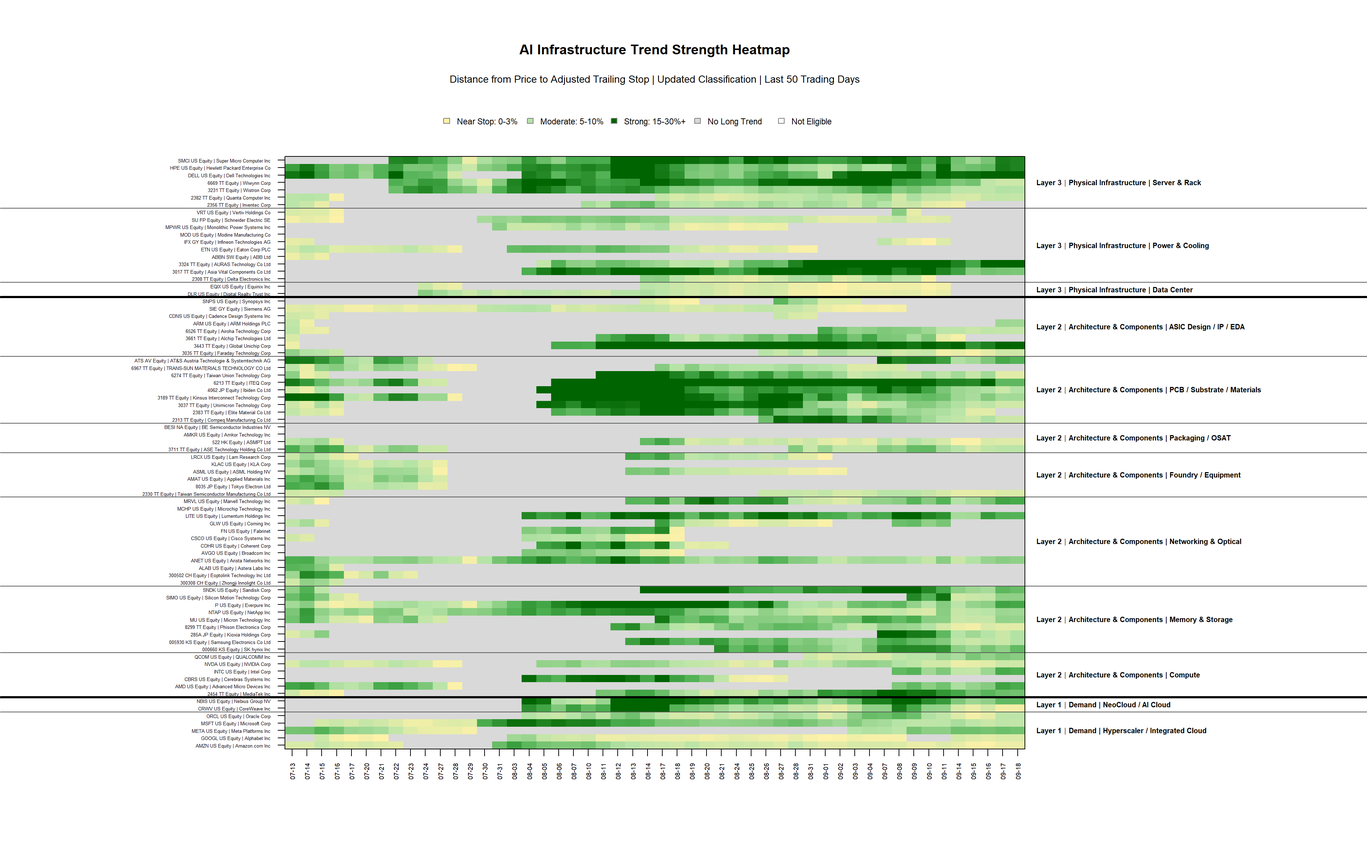
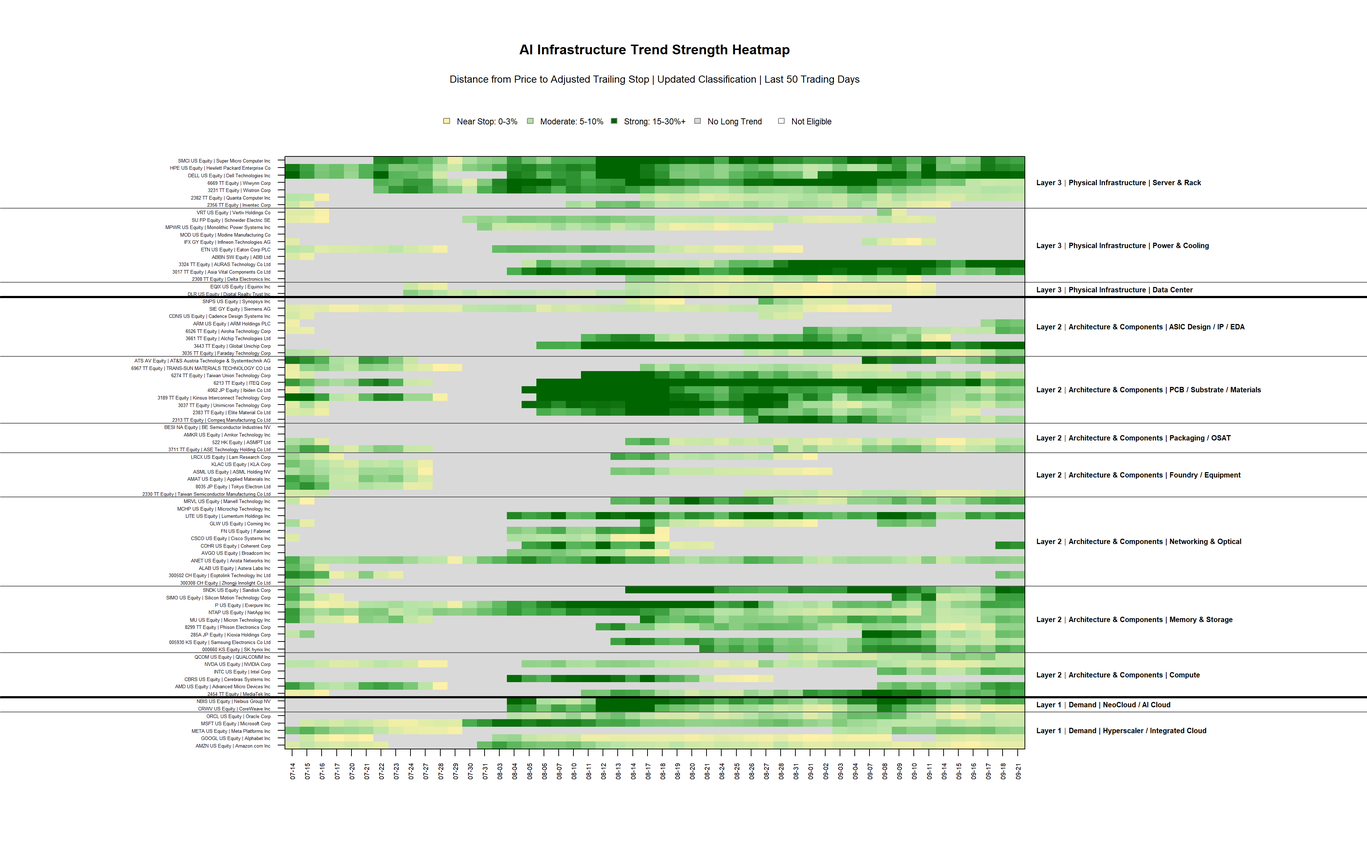
Add files via upload

diff --git a/index.html b/index.html
@@ -60,8 +60,8 @@ footer{color:var(--muted);font-size:11px;margin:18px 2px 30px}
     <div class="subtitle">Trend strength × daily signal snapshot × Bloomberg news context</div>
   </div>
   <div class="status">
-    <div class="badge">Data Through <strong>2026-09-18</strong></div>
-    <div class="badge">Generated <strong>2026-09-18 08:34</strong></div>
+    <div class="badge">Data Through <strong>2026-09-21</strong></div>
+    <div class="badge">Generated <strong>2026-09-21 08:21</strong></div>
     <div class="badge">Status <strong>SUCCESS</strong></div>
   </div>
 </header>
@@ -75,7 +75,7 @@ footer{color:var(--muted);font-size:11px;margin:18px 2px 30px}
   <section class="card">
     <h2>Daily Snapshot</h2>
     <div class="metrics">
-      <div class="metric"><div class="n">46</div><div class="k">Long Trend</div></div>
+      <div class="metric"><div class="n">48</div><div class="k">Long Trend</div></div>
       <div class="metric"><div class="n">80</div><div class="k">Eligible Names</div></div>
       <div class="metric"><div class="n">80</div><div class="k">Universe</div></div>
     </div>
@@ -85,86 +85,86 @@ footer{color:var(--muted);font-size:11px;margin:18px 2px 30px}
     </div>
     <div class="snapshot-wrap">
       <table><thead><tr><th>Asset</th><th>Status</th><th>Price (USD)</th><th>Trailing Stop (USD)</th><th>Distance</th></tr></thead><tbody>
-<tr><td>000660 KS Equity</td><td class='trend-long'>Long</td><td>1311.95757</td><td>1113.18070665047</td><td>17.9%</td></tr>
-<tr><td>005930 KS Equity</td><td class='trend-long'>Long</td><td>187.62949</td><td>170.234818043184</td><td>10.2%</td></tr>
-<tr><td>2313 TT Equity</td><td class='trend-long'>Long</td><td>6.85103</td><td>6.39876347887436</td><td>7.1%</td></tr>
-<tr><td>2330 TT Equity</td><td class='trend-long'>Long</td><td>76.03549</td><td>72.2648546983504</td><td>5.2%</td></tr>
-<tr><td>2382 TT Equity</td><td class='trend-long'>Long</td><td>10.78607</td><td>9.96649963390249</td><td>8.2%</td></tr>
-<tr><td>2454 TT Equity</td><td class='trend-long'>Long</td><td>141.09679</td><td>121.174929682243</td><td>16.4%</td></tr>
-<tr><td>285A JP Equity</td><td class='trend-long'>Long</td><td>328.21105</td><td>297.709015072476</td><td>10.2%</td></tr>
-<tr><td>3017 TT Equity</td><td class='trend-long'>Long</td><td>99.86518</td><td>86.4327494790289</td><td>15.5%</td></tr>
-<tr><td>3035 TT Equity</td><td class='trend-long'>Long</td><td>5.61252</td><td>5.25763616539485</td><td>6.7%</td></tr>
-<tr><td>3037 TT Equity</td><td class='trend-long'>Long</td><td>29.47355</td><td>27.6713663070562</td><td>6.5%</td></tr>
-<tr><td>3189 TT Equity</td><td class='trend-long'>Long</td><td>25.24065</td><td>22.5465341216991</td><td>11.9%</td></tr>
-<tr><td>3231 TT Equity</td><td class='trend-long'>Long</td><td>5.84768</td><td>5.30675267423194</td><td>10.2%</td></tr>
-<tr><td>3324 TT Equity</td><td class='trend-long'>Long</td><td>43.42646</td><td>33.4283160347084</td><td>29.9%</td></tr>
-<tr><td>3443 TT Equity</td><td class='trend-long'>Long</td><td>203.80648</td><td>157.171503630197</td><td>29.7%</td></tr>
-<tr><td>3711 TT Equity</td><td class='trend-long'>Long</td><td>19.25187</td><td>17.5907866662085</td><td>9.4%</td></tr>
-<tr><td>4062 JP Equity</td><td class='trend-long'>Long</td><td>121.94264</td><td>110.516266977582</td><td>10.3%</td></tr>
-<tr><td>522 HK Equity</td><td class='trend-long'>Long</td><td>20.3923</td><td>19.5092745601432</td><td>4.5%</td></tr>
-<tr><td>6213 TT Equity</td><td class='trend-long'>Long</td><td>15.52065</td><td>13.1482647469595</td><td>18.0%</td></tr>
-<tr><td>6274 TT Equity</td><td class='trend-long'>Long</td><td>41.38839</td><td>39.7657946388386</td><td>4.1%</td></tr>
-<tr><td>6526 TT Equity</td><td class='trend-long'>Long</td><td>19.7222</td><td>18.2212912795206</td><td>8.2%</td></tr>
-<tr><td>6669 TT Equity</td><td class='trend-long'>Long</td><td>66.94259</td><td>62.4728507704966</td><td>7.2%</td></tr>
-<tr><td>8299 TT Equity</td><td class='trend-long'>Long</td><td>61.76904</td><td>59.2809921496641</td><td>4.2%</td></tr>
-<tr><td>AMD US Equity</td><td class='trend-long'>Long</td><td>545.09</td><td>453.139988157589</td><td>20.3%</td></tr>
-<tr><td>AMZN US Equity</td><td class='trend-long'>Long</td><td>251.19</td><td>245.016006881622</td><td>2.5%</td></tr>
-<tr><td>ANET US Equity</td><td class='trend-long'>Long</td><td>199.53</td><td>175.392995703893</td><td>13.8%</td></tr>
-<tr><td>ARM US Equity</td><td class='trend-long'>Long</td><td>264.9</td><td>236.175844804723</td><td>12.2%</td></tr>
-<tr><td>ATS AV Equity</td><td class='trend-long'>Long</td><td>191.87873</td><td>161.339405301939</td><td>18.9%</td></tr>
-<tr><td>CRWV US Equity</td><td class='trend-long'>Long</td><td>79.88</td><td>78.6351262827263</td><td>1.6%</td></tr>
-<tr><td>DELL US Equity</td><td class='trend-long'>Long</td><td>588.4</td><td>435.467419483092</td><td>35.1%</td></tr>
-<tr><td>GOOGL US Equity</td><td class='trend-long'>Long</td><td>347.33</td><td>331.240763949059</td><td>4.9%</td></tr>
-<tr><td>HPE US Equity</td><td class='trend-long'>Long</td><td>61.04</td><td>48.5763397519086</td><td>25.7%</td></tr>
-<tr><td>INTC US Equity</td><td class='trend-long'>Long</td><td>108.8</td><td>90.8218265608085</td><td>19.8%</td></tr>
-<tr><td>LITE US Equity</td><td class='trend-long'>Long</td><td>893.61</td><td>750.776462380465</td><td>19.0%</td></tr>
-<tr><td>META US Equity</td><td class='trend-long'>Long</td><td>682.31</td><td>586.881597747371</td><td>16.3%</td></tr>
-<tr><td>MRVL US Equity</td><td class='trend-long'>Long</td><td>240.76</td><td>199.772614170755</td><td>20.5%</td></tr>
-<tr><td>MSFT US Equity</td><td class='trend-long'>Long</td><td>497.75</td><td>458.39800953191</td><td>8.6%</td></tr>
-<tr><td>MU US Equity</td><td class='trend-long'>Long</td><td>977.5</td><td>865.017160767463</td><td>13.0%</td></tr>
-<tr><td>NBIS US Equity</td><td class='trend-long'>Long</td><td>217.99</td><td>184.866109101557</td><td>17.9%</td></tr>
-<tr><td>NTAP US Equity</td><td class='trend-long'>Long</td><td>196.92</td><td>175.611262354093</td><td>12.1%</td></tr>
-<tr><td>NVDA US Equity</td><td class='trend-long'>Long</td><td>219.34</td><td>205.331925817236</td><td>6.8%</td></tr>
-<tr><td>ORCL US Equity</td><td class='trend-long'>Long</td><td>150.59</td><td>138.134592842002</td><td>9.0%</td></tr>
-<tr><td>P US Equity</td><td class='trend-long'>Long</td><td>103.99</td><td>86.0239700498962</td><td>20.9%</td></tr>
-<tr><td>QCOM US Equity</td><td class='trend-long'>Long</td><td>188.71</td><td>165.060743369839</td><td>14.3%</td></tr>
-<tr><td>SIMO US Equity</td><td class='trend-long'>Long</td><td>253.3</td><td>222.813634397763</td><td>13.7%</td></tr>
-<tr><td>SMCI US Equity</td><td class='trend-long'>Long</td><td>40.35</td><td>32.135438496166</td><td>25.6%</td></tr>
-<tr><td>SNDK US Equity</td><td class='trend-long'>Long</td><td>1614.39</td><td>1377.64079489552</td><td>17.2%</td></tr>
-<tr><td>2308 TT Equity</td><td class='trend-flat'>No Long Trend</td><td>52.83291</td><td>NA</td><td></td></tr>
-<tr><td>2356 TT Equity</td><td class='trend-flat'>No Long Trend</td><td>1.92832</td><td>NA</td><td></td></tr>
-<tr><td>2383 TT Equity</td><td class='trend-flat'>No Long Trend</td><td>147.21099</td><td>NA</td><td></td></tr>
-<tr><td>300308 CH Equity</td><td class='trend-flat'>No Long Trend</td><td>133.59177</td><td>NA</td><td></td></tr>
-<tr><td>300502 CH Equity</td><td class='trend-flat'>No Long Trend</td><td>63.26823</td><td>NA</td><td></td></tr>
-<tr><td>3661 TT Equity</td><td class='trend-flat'>No Long Trend</td><td>103.31421</td><td>NA</td><td></td></tr>
-<tr><td>6967 TT Equity</td><td class='trend-flat'>No Long Trend</td><td>2.06942</td><td>NA</td><td></td></tr>
-<tr><td>8035 JP Equity</td><td class='trend-flat'>No Long Trend</td><td>336.02255</td><td>NA</td><td></td></tr>
-<tr><td>ABBN SW Equity</td><td class='trend-flat'>No Long Trend</td><td>96.39957</td><td>NA</td><td></td></tr>
-<tr><td>ALAB US Equity</td><td class='trend-flat'>No Long Trend</td><td>293.56</td><td>NA</td><td></td></tr>
-<tr><td>AMAT US Equity</td><td class='trend-flat'>No Long Trend</td><td>417.4</td><td>NA</td><td></td></tr>
-<tr><td>AMKR US Equity</td><td class='trend-flat'>No Long Trend</td><td>47.95</td><td>NA</td><td></td></tr>
-<tr><td>ASML US Equity</td><td class='trend-flat'>No Long Trend</td><td>1629.67</td><td>NA</td><td></td></tr>
-<tr><td>AVGO US Equity</td><td class='trend-flat'>No Long Trend</td><td>347.3</td><td>NA</td><td></td></tr>
-<tr><td>BESI NA Equity</td><td class='trend-flat'>No Long Trend</td><td>208.28941</td><td>NA</td><td></td></tr>
-<tr><td>CBRS US Equity</td><td class='trend-flat'>No Long Trend</td><td>194.14</td><td>NA</td><td></td></tr>
-<tr><td>CDNS US Equity</td><td class='trend-flat'>No Long Trend</td><td>280.76</td><td>NA</td><td></td></tr>
-<tr><td>COHR US Equity</td><td class='trend-flat'>No Long Trend</td><td>295.98</td><td>NA</td><td></td></tr>
-<tr><td>CSCO US Equity</td><td class='trend-flat'>No Long Trend</td><td>110.24</td><td>NA</td><td></td></tr>
-<tr><td>DLR US Equity</td><td class='trend-flat'>No Long Trend</td><td>184.26</td><td>NA</td><td></td></tr>
-<tr><td>EQIX US Equity</td><td class='trend-flat'>No Long Trend</td><td>1025.94</td><td>NA</td><td></td></tr>
-<tr><td>ETN US Equity</td><td class='trend-flat'>No Long Trend</td><td>409.46</td><td>NA</td><td></td></tr>
-<tr><td>FN US Equity</td><td class='trend-flat'>No Long Trend</td><td>380.92</td><td>NA</td><td></td></tr>
-<tr><td>GLW US Equity</td><td class='trend-flat'>No Long Trend</td><td>147.8</td><td>NA</td><td></td></tr>
-<tr><td>IFX GY Equity</td><td class='trend-flat'>No Long Trend</td><td>62.42944</td><td>NA</td><td></td></tr>
-<tr><td>KLAC US Equity</td><td class='trend-flat'>No Long Trend</td><td>168.98</td><td>NA</td><td></td></tr>
-<tr><td>LRCX US Equity</td><td class='trend-flat'>No Long Trend</td><td>269.31</td><td>NA</td><td></td></tr>
-<tr><td>MCHP US Equity</td><td class='trend-flat'>No Long Trend</td><td>70.82</td><td>NA</td><td></td></tr>
-<tr><td>MOD US Equity</td><td class='trend-flat'>No Long Trend</td><td>184.86</td><td>NA</td><td></td></tr>
-<tr><td>MPWR US Equity</td><td class='trend-flat'>No Long Trend</td><td>1169.58</td><td>NA</td><td></td></tr>
-<tr><td>SIE GY Equity</td><td class='trend-flat'>No Long Trend</td><td>305.95017</td><td>NA</td><td></td></tr>
-<tr><td>SNPS US Equity</td><td class='trend-flat'>No Long Trend</td><td>381.17</td><td>NA</td><td></td></tr>
-<tr><td>SU FP Equity</td><td class='trend-flat'>No Long Trend</td><td>329.47597</td><td>NA</td><td></td></tr>
-<tr><td>VRT US Equity</td><td class='trend-flat'>No Long Trend</td><td>241.49</td><td>NA</td><td></td></tr>
+<tr><td>000660 KS Equity</td><td class='trend-long'>Long</td><td>1339.69152</td><td>1130.53347817449</td><td>18.5%</td></tr>
+<tr><td>005930 KS Equity</td><td class='trend-long'>Long</td><td>188.29267</td><td>171.774830696679</td><td>9.6%</td></tr>
+<tr><td>2313 TT Equity</td><td class='trend-long'>Long</td><td>7.18012</td><td>6.42153593459685</td><td>11.8%</td></tr>
+<tr><td>2330 TT Equity</td><td class='trend-long'>Long</td><td>77.30015</td><td>72.5025495128942</td><td>6.6%</td></tr>
+<tr><td>2382 TT Equity</td><td class='trend-long'>Long</td><td>10.77803</td><td>9.99994522475622</td><td>7.8%</td></tr>
+<tr><td>2454 TT Equity</td><td class='trend-long'>Long</td><td>148.00151</td><td>122.62833144536</td><td>20.7%</td></tr>
+<tr><td>285A JP Equity</td><td class='trend-long'>Long</td><td>348.02296</td><td>300.260027810702</td><td>15.9%</td></tr>
+<tr><td>300502 CH Equity</td><td class='trend-long'>Long</td><td>66.44469</td><td>57.8230543504333</td><td>14.9%</td></tr>
+<tr><td>3017 TT Equity</td><td class='trend-long'>Long</td><td>107.78029</td><td>87.1819577358047</td><td>23.6%</td></tr>
+<tr><td>3035 TT Equity</td><td class='trend-long'>Long</td><td>5.98605</td><td>5.26182847781263</td><td>13.8%</td></tr>
+<tr><td>3037 TT Equity</td><td class='trend-long'>Long</td><td>30.82579</td><td>27.7848937289748</td><td>10.9%</td></tr>
+<tr><td>3189 TT Equity</td><td class='trend-long'>Long</td><td>26.14379</td><td>22.7284130869762</td><td>15.0%</td></tr>
+<tr><td>3231 TT Equity</td><td class='trend-long'>Long</td><td>5.86036</td><td>5.33248445756918</td><td>9.9%</td></tr>
+<tr><td>3324 TT Equity</td><td class='trend-long'>Long</td><td>46.50578</td><td>33.9274141561716</td><td>37.1%</td></tr>
+<tr><td>3443 TT Equity</td><td class='trend-long'>Long</td><td>224.6732</td><td>159.95801835688</td><td>40.5%</td></tr>
+<tr><td>3711 TT Equity</td><td class='trend-long'>Long</td><td>20.04776</td><td>17.7424449899392</td><td>13.0%</td></tr>
+<tr><td>4062 JP Equity</td><td class='trend-long'>Long</td><td>124.71301</td><td>110.771784904688</td><td>12.6%</td></tr>
+<tr><td>522 HK Equity</td><td class='trend-long'>Long</td><td>21.42548</td><td>19.5092745601432</td><td>9.8%</td></tr>
+<tr><td>6213 TT Equity</td><td class='trend-long'>Long</td><td>15.86853</td><td>13.2606748737647</td><td>19.7%</td></tr>
+<tr><td>6274 TT Equity</td><td class='trend-long'>Long</td><td>43.04927</td><td>39.7657946388386</td><td>8.3%</td></tr>
+<tr><td>6526 TT Equity</td><td class='trend-long'>Long</td><td>21.71317</td><td>18.3821953734221</td><td>18.1%</td></tr>
+<tr><td>6669 TT Equity</td><td class='trend-long'>Long</td><td>67.24485</td><td>62.4728507704966</td><td>7.6%</td></tr>
+<tr><td>8299 TT Equity</td><td class='trend-long'>Long</td><td>67.24485</td><td>59.2809921496641</td><td>13.4%</td></tr>
+<tr><td>AMD US Equity</td><td class='trend-long'>Long</td><td>559.82</td><td>458.830203961247</td><td>22.0%</td></tr>
+<tr><td>AMZN US Equity</td><td class='trend-long'>Long</td><td>253.71</td><td>245.016006881622</td><td>3.5%</td></tr>
+<tr><td>ANET US Equity</td><td class='trend-long'>Long</td><td>199.39</td><td>175.920194589461</td><td>13.3%</td></tr>
+<tr><td>ARM US Equity</td><td class='trend-long'>Long</td><td>275.61</td><td>238.19285910199</td><td>15.7%</td></tr>
+<tr><td>ATS AV Equity</td><td class='trend-long'>Long</td><td>201.71292</td><td>162.845343725349</td><td>23.9%</td></tr>
+<tr><td>COHR US Equity</td><td class='trend-long'>Long</td><td>317.36</td><td>256.783243780454</td><td>23.6%</td></tr>
+<tr><td>CRWV US Equity</td><td class='trend-long'>Long</td><td>81.36</td><td>78.6351262827263</td><td>3.5%</td></tr>
+<tr><td>DELL US Equity</td><td class='trend-long'>Long</td><td>568.06</td><td>439.494386649966</td><td>29.3%</td></tr>
+<tr><td>GOOGL US Equity</td><td class='trend-long'>Long</td><td>349.54</td><td>331.928673662308</td><td>5.3%</td></tr>
+<tr><td>HPE US Equity</td><td class='trend-long'>Long</td><td>60.76</td><td>49.0694522379654</td><td>23.8%</td></tr>
+<tr><td>INTC US Equity</td><td class='trend-long'>Long</td><td>108.6</td><td>91.6458556439021</td><td>18.5%</td></tr>
+<tr><td>LITE US Equity</td><td class='trend-long'>Long</td><td>930.91</td><td>756.953659368022</td><td>23.0%</td></tr>
+<tr><td>META US Equity</td><td class='trend-long'>Long</td><td>665.75</td><td>587.428529677448</td><td>13.3%</td></tr>
+<tr><td>MRVL US Equity</td><td class='trend-long'>Long</td><td>244.25</td><td>201.69062609714</td><td>21.1%</td></tr>
+<tr><td>MSFT US Equity</td><td class='trend-long'>Long</td><td>493.78</td><td>458.936546506497</td><td>7.6%</td></tr>
+<tr><td>MU US Equity</td><td class='trend-long'>Long</td><td>1015.8</td><td>873.098062975636</td><td>16.3%</td></tr>
+<tr><td>NBIS US Equity</td><td class='trend-long'>Long</td><td>223.54</td><td>186.301287598685</td><td>20.0%</td></tr>
+<tr><td>NTAP US Equity</td><td class='trend-long'>Long</td><td>197.79</td><td>176.511412005424</td><td>12.1%</td></tr>
+<tr><td>NVDA US Equity</td><td class='trend-long'>Long</td><td>222.27</td><td>205.569928002084</td><td>8.1%</td></tr>
+<tr><td>ORCL US Equity</td><td class='trend-long'>Long</td><td>147.61</td><td>138.134592842002</td><td>6.9%</td></tr>
+<tr><td>P US Equity</td><td class='trend-long'>Long</td><td>104.14</td><td>86.5252481014288</td><td>20.4%</td></tr>
+<tr><td>QCOM US Equity</td><td class='trend-long'>Long</td><td>177.72</td><td>164.45756990324</td><td>8.1%</td></tr>
+<tr><td>SIMO US Equity</td><td class='trend-long'>Long</td><td>272.11</td><td>222.813634397763</td><td>22.1%</td></tr>
+<tr><td>SMCI US Equity</td><td class='trend-long'>Long</td><td>39.09</td><td>32.2310594740525</td><td>21.3%</td></tr>
+<tr><td>SNDK US Equity</td><td class='trend-long'>Long</td><td>1791.82</td><td>1397.03440245397</td><td>28.3%</td></tr>
+<tr><td>2308 TT Equity</td><td class='trend-flat'>No Long Trend</td><td>54.5186</td><td>NA</td><td></td></tr>
+<tr><td>2356 TT Equity</td><td class='trend-flat'>No Long Trend</td><td>1.93879</td><td>NA</td><td></td></tr>
+<tr><td>2383 TT Equity</td><td class='trend-flat'>No Long Trend</td><td>153.65762</td><td>NA</td><td></td></tr>
+<tr><td>300308 CH Equity</td><td class='trend-flat'>No Long Trend</td><td>138.32888</td><td>NA</td><td></td></tr>
+<tr><td>3661 TT Equity</td><td class='trend-flat'>No Long Trend</td><td>111.2368</td><td>NA</td><td></td></tr>
+<tr><td>6967 TT Equity</td><td class='trend-flat'>No Long Trend</td><td>2.08019</td><td>NA</td><td></td></tr>
+<tr><td>8035 JP Equity</td><td class='trend-flat'>No Long Trend</td><td>338.71173</td><td>NA</td><td></td></tr>
+<tr><td>ABBN SW Equity</td><td class='trend-flat'>No Long Trend</td><td>97.25328</td><td>NA</td><td></td></tr>
+<tr><td>ALAB US Equity</td><td class='trend-flat'>No Long Trend</td><td>303.25</td><td>NA</td><td></td></tr>
+<tr><td>AMAT US Equity</td><td class='trend-flat'>No Long Trend</td><td>444.57</td><td>NA</td><td></td></tr>
+<tr><td>AMKR US Equity</td><td class='trend-flat'>No Long Trend</td><td>50.3</td><td>NA</td><td></td></tr>
+<tr><td>ASML US Equity</td><td class='trend-flat'>No Long Trend</td><td>1679.92</td><td>NA</td><td></td></tr>
+<tr><td>AVGO US Equity</td><td class='trend-flat'>No Long Trend</td><td>357.61</td><td>NA</td><td></td></tr>
+<tr><td>BESI NA Equity</td><td class='trend-flat'>No Long Trend</td><td>214.16221</td><td>NA</td><td></td></tr>
+<tr><td>CBRS US Equity</td><td class='trend-flat'>No Long Trend</td><td>198.37</td><td>NA</td><td></td></tr>
+<tr><td>CDNS US Equity</td><td class='trend-flat'>No Long Trend</td><td>282.9</td><td>NA</td><td></td></tr>
+<tr><td>CSCO US Equity</td><td class='trend-flat'>No Long Trend</td><td>109.51</td><td>NA</td><td></td></tr>
+<tr><td>DLR US Equity</td><td class='trend-flat'>No Long Trend</td><td>182.12</td><td>NA</td><td></td></tr>
+<tr><td>EQIX US Equity</td><td class='trend-flat'>No Long Trend</td><td>1021.34</td><td>NA</td><td></td></tr>
+<tr><td>ETN US Equity</td><td class='trend-flat'>No Long Trend</td><td>424.77</td><td>NA</td><td></td></tr>
+<tr><td>FN US Equity</td><td class='trend-flat'>No Long Trend</td><td>388.55</td><td>NA</td><td></td></tr>
+<tr><td>GLW US Equity</td><td class='trend-flat'>No Long Trend</td><td>150.13</td><td>NA</td><td></td></tr>
+<tr><td>IFX GY Equity</td><td class='trend-flat'>No Long Trend</td><td>64.09376</td><td>NA</td><td></td></tr>
+<tr><td>KLAC US Equity</td><td class='trend-flat'>No Long Trend</td><td>176.99</td><td>NA</td><td></td></tr>
+<tr><td>LRCX US Equity</td><td class='trend-flat'>No Long Trend</td><td>288.11</td><td>NA</td><td></td></tr>
+<tr><td>MCHP US Equity</td><td class='trend-flat'>No Long Trend</td><td>73.27</td><td>NA</td><td></td></tr>
+<tr><td>MOD US Equity</td><td class='trend-flat'>No Long Trend</td><td>188.72</td><td>NA</td><td></td></tr>
+<tr><td>MPWR US Equity</td><td class='trend-flat'>No Long Trend</td><td>1217.8</td><td>NA</td><td></td></tr>
+<tr><td>SIE GY Equity</td><td class='trend-flat'>No Long Trend</td><td>302.9136</td><td>NA</td><td></td></tr>
+<tr><td>SNPS US Equity</td><td class='trend-flat'>No Long Trend</td><td>384.97</td><td>NA</td><td></td></tr>
+<tr><td>SU FP Equity</td><td class='trend-flat'>No Long Trend</td><td>327.86955</td><td>NA</td><td></td></tr>
+<tr><td>VRT US Equity</td><td class='trend-flat'>No Long Trend</td><td>249.39</td><td>NA</td><td></td></tr>
 </tbody></table>
 
     </div>
@@ -172,51 +172,19 @@ footer{color:var(--muted);font-size:11px;margin:18px 2px 30px}
 
   <section class="card">
     <h2>Daily News</h2>
-    <div class="news"><p class='sector'><strong>Broad AI infrastructure rebound, Sep 17: Chip and memory stocks staged a sharp recovery on Sep 17, reversing a bruising selloff earlier in the week triggered by AI safety/slowdown concerns (Anthropic CEO essay, AI leader calls for slower development). The Philadelphia Semiconductor Index added ~3.1–3.2% on the day; XSD +4.5%. The Fed&#39;s 25bp rate hike on Sep 17 was absorbed without lasting damage. (1) (2)</strong></p>
-<p class='sector'><strong>Memory price surge / Intel CEO warning: Intel CEO Lip-Bu Tan warned publicly that memory prices have surged over 500% and the shortage could worsen into 2027. This was the primary catalyst for MU (+5.5%), SNDK (+6.2%), SIMO (+5.0%), and read-across to SK Hynix (000660 KS, -0.8% — muted, possibly capped by the Intel/SK Hynix JV denial). (3) (4)</strong></p>
-<p class='sector'><strong>Intel / SK Hynix US memory JV speculation: Reuters reported Intel and SK Hynix were in early talks about a potential memory manufacturing partnership at Intel&#39;s Ohio fabs. SK Hynix denied any finalized plans on Sep 17. The story drove INTC higher on Sep 16–17 and kept 000660 KS in focus, though SK Hynix&#39;s denial capped its gains. (5) (6) (7)</strong></p>
-<p class='sector'><strong>Nvidia GPU price inflation / hyperscaler capex read-through: Bloomberg Intelligence noted that rising Nvidia GPU prices signal strong demand and improve cloud economics for Amazon, Microsoft, and Alphabet, supporting further hyperscaler capex. This underpinned the broad AI infrastructure rally and benefited data center names (DLR, EQIX), power names (ETN, SU FP, SIE GY), and networking names (MRVL, ANET, COHR). (8)</strong></p>
-<p class='sector'><strong>CCL / substrate sector sell-off (Taiwan): Elite Material (2383 TT, -7.67%) and Taiwan Union Technology (6274 TT, -6.71%) both saw volume spike to 3x their 20-day averages on Sep 17 with heavy selling pressure. Doosan (Korea) announced a KRW 968bn CCL capacity expansion — the largest in its history — which may have raised supply concerns for incumbent CCL producers. Both names had been rated Overweight by Morgan Stanley on Sep 14 with aggressive price targets, suggesting the sell-off may reflect profit-taking after a strong run (Elite Material +184% YTD, Taiwan Union +163% YTD). (9) (10) (11)</strong></p>
-<p class='sector'><strong>Data center power / US legislative action: The US House passed the Ratepayer Protection Act 417-3 on Sep 17, directing states and utilities to consider requiring data centers to pay for their own power infrastructure costs. This is a potential headwind for hyperscaler capex economics but was not visibly negative for power infrastructure names (ETN, SU FP, SIE GY all rose), suggesting the market read it as neutral-to-positive for power equipment suppliers. Oracle separately signed 433MW and 568MW renewable energy PPAs with RWE and ENGIE for its Texas data centers. (12) (13)</strong></p>
-<h4>1. Micron, Intel and other chip stocks are furthering their strong comebacks</h4>
-<p class='sector'><strong>https://blinks.bloomberg.com/screens/NSN%20TLJ21KPV4WE8</strong></p>
-<p>NEWS 09/17/2026</p>
-<h4>2. OpenAI Reveals 6 &#39;Concerning&#39; Incidents. Why Marvell, Other Hot AI Stocks Are Rising.</h4>
-<p class='sector'><strong>https://blinks.bloomberg.com/screens/NSN%20TLIH0LPV4WE8</strong></p>
-<p>NEWS 09/17/2026</p>
-<h4>3. Why Micron Stock Is Jumping as Intel CEO Warns On Memory Chips</h4>
-<p class='sector'><strong>https://blinks.bloomberg.com/screens/NSN%20TLIGQWPV4WE8</strong></p>
-<p>NEWS 09/17/2026</p>
-<h4>4. Micron Jumps 5% as Intel CEO Says Memory Prices Have Surged Over 500%</h4>
-<p class='sector'><strong>https://blinks.bloomberg.com/screens/NSN%20TLIM54BQ99TU</strong></p>
-<p>NEWS 09/17/2026</p>
-<h4>5. SK hynix Says No Intel Memory Deal Has Been Finalized</h4>
-<p class='sector'><strong>https://blinks.bloomberg.com/screens/NSN%20TLHQSVGETF5S</strong></p>
-<p>NEWS 09/17/2026</p>
-<h4>6. SK Hynix Says Exploring Options After Report of Intel Tie-Up (3)</h4>
-<p class='sector'><strong>https://blinks.bloomberg.com/screens/NSN%20TLHTUUT9NJLS</strong></p>
-<p>NEWS 09/17/2026</p>
-<h4>7. Intel&#39;s stock rises as investors hope memory chips can mark the next step in its turnaround</h4>
-<p class='sector'><strong>https://blinks.bloomberg.com/screens/NSN%20TLHE9SPV4WE8</strong></p>
-<p>NEWS 09/16/2026</p>
-<h4>8. Data Center, Neocloud Firms Gain as AI-Related Stocks Rally</h4>
-<p class='sector'><strong>https://blinks.bloomberg.com/screens/NSN%20TLI9VXKK3NY8</strong></p>
-<p>NEWS 09/17/2026</p>
-<h4>9. Doosan Board Approved KRW968 Billion Production Expansion Plan</h4>
-<p class='sector'><strong>https://blinks.bloomberg.com/screens/NSN%20TLI7H2GFA9Z4</strong></p>
-<p>NEWS 09/17/2026</p>
-<h4>10. Taiwan Union Tech Rated New Overweight at Morgan Stanley</h4>
-<p class='sector'><strong>https://blinks.bloomberg.com/screens/NSN%20TLC6SZGF4NPC</strong></p>
-<p>NEWS 09/14/2026</p>
-<h4>11. Taiwan Union Tech Volume Rises to Almost Triple 20-Day Average</h4>
-<p class='sector'><strong>https://blinks.bloomberg.com/screens/NSN%20TLHL2HO2LL34</strong></p>
-<p>NEWS 09/16/2026</p>
-<h4>12. House Approves Bipartisan Data Center Costs Bill: BGOV Tech</h4>
-<p class='sector'><strong>https://blinks.bloomberg.com/screens/NSN%20TLI6NCKGZAJ1</strong></p>
-<p>NEWS 09/17/2026</p>
-<h4>13. RWE Signs 433MW Virtual Power Purchase Deal With Oracle</h4>
-<p class='sector'><strong>https://blinks.bloomberg.com/screens/NSN%20TLIFQ8KK3NYK</strong></p>
-<p>NEWS 09/17/2026</p>
+    <div class="news"><p>Applying the hard 24-hour window. The window covers Sunday Sep 20 (UTC) into Monday morning Asia open. News flow on a Sunday UTC is thin; the items below are the confirmed in-window or boundary-adjacent material themes.</p>
+<h4>1. US-China AI Dialogue Established — Export-Control Tail Risk Reduced</h4>
+<p>US Treasury Secretary Bessent confirmed after meeting a Chinese delegation that the US and China have agreed to establish a formal AI dialogue channel and will meet again. Confirmed in-window (Bloomberg, ~Sep 20 18:49 UTC = Sep 21 02:49 GMT+8). Direct read-across for every semiconductor and equipment name on this list facing China export-control risk: ASML, AMAT, LRCX, KLAC, 8035 JP, NVDA, AMD, AVGO, QCOM, MRVL, INTC, 2330 TT, 000660 KS, 005930 KS.</p>
+<h4>2. AI Safety Push — Chip Bull Case Intact Per Bloomberg Intelligence</h4>
+<p class='sector'><strong>Bloomberg published an MLIV chart piece (Sep 18, ~19:35 UTC — just outside window but widely in the tape entering the Asian Monday open) noting that calls to slow frontier-model development have not broken the chip earnings story. Semiconductor inventories at historic lows; inventory days at multi-year trough. Relevant as sentiment anchor for the full semiconductor sub-cluster entering the Sep 21 Asia session.</strong></p>
+<h4>3. Hyperscaler Capex Cycle — Peak Growth Debate Entering the Tape</h4>
+<p>A Bloomberg Macro View piece (Sep 10, widely recirculated Sep 18–20) flagged that AI capex from the largest hyperscalers is projected to top $1 trillion next year, but that the sheer base effect makes sustained high growth rates &quot;mathematically difficult.&quot; This is the key forward risk for the hyperscaler-exposed names on this list: GOOGL, AMZN, META, MSFT (demand side) and NVDA, AMAT, ASML, VRT, ETN, MOD, DLR, EQIX (supply side).</p>
+<h4>4. CoreWeave $3.7B Convertible — AI Infrastructure Debt Financing in Focus</h4>
+<p class='sector'><strong>CoreWeave priced an upsized $3.7B convertible note offering (Sep 18, 19:04 UTC). This is the largest convertible deal in the AI infrastructure space to date and signals continued aggressive capacity build. Directly relevant to CRWV and, as a read-across, to its GPU suppliers (NVDA) and data-center infrastructure names (VRT, ETN, DLR, EQIX). The deal was priced at a 22.5% conversion premium to the Sep 17 close.</strong></p>
+<h4>5. Nebius GPU Price Hike — Cloud GPU Pricing Power Confirmed</h4>
+<p>Nebius (NBIS) reportedly raised GPU cloud prices ~20% across H100/H200/B200/B300 effective Oct 1 (Sep 17, in tape entering this window). Signals tight compute supply persisting into Q4. Positive read-across for NVDA (demand confirmation), CRWV (pricing power peer signal), and the broader AI cloud infrastructure cluster.</p>
+<h4>6. Applied Materials + Lam Research India Investment — Supply Chain Diversification</h4>
+<p>AMAT announced $5B India investment over 10 years (Sep 17); Lam Research announced ₹100B (~$1B) India investment simultaneously. Both confirmed in the tape entering this window. Signals long-term geographic diversification of the semiconductor equipment supply chain — relevant to AMAT, LRCX, and indirectly to TSMC (2330 TT) and other foundry names as India capacity comes online.</p>
 </div>
   </section>
 </div>
